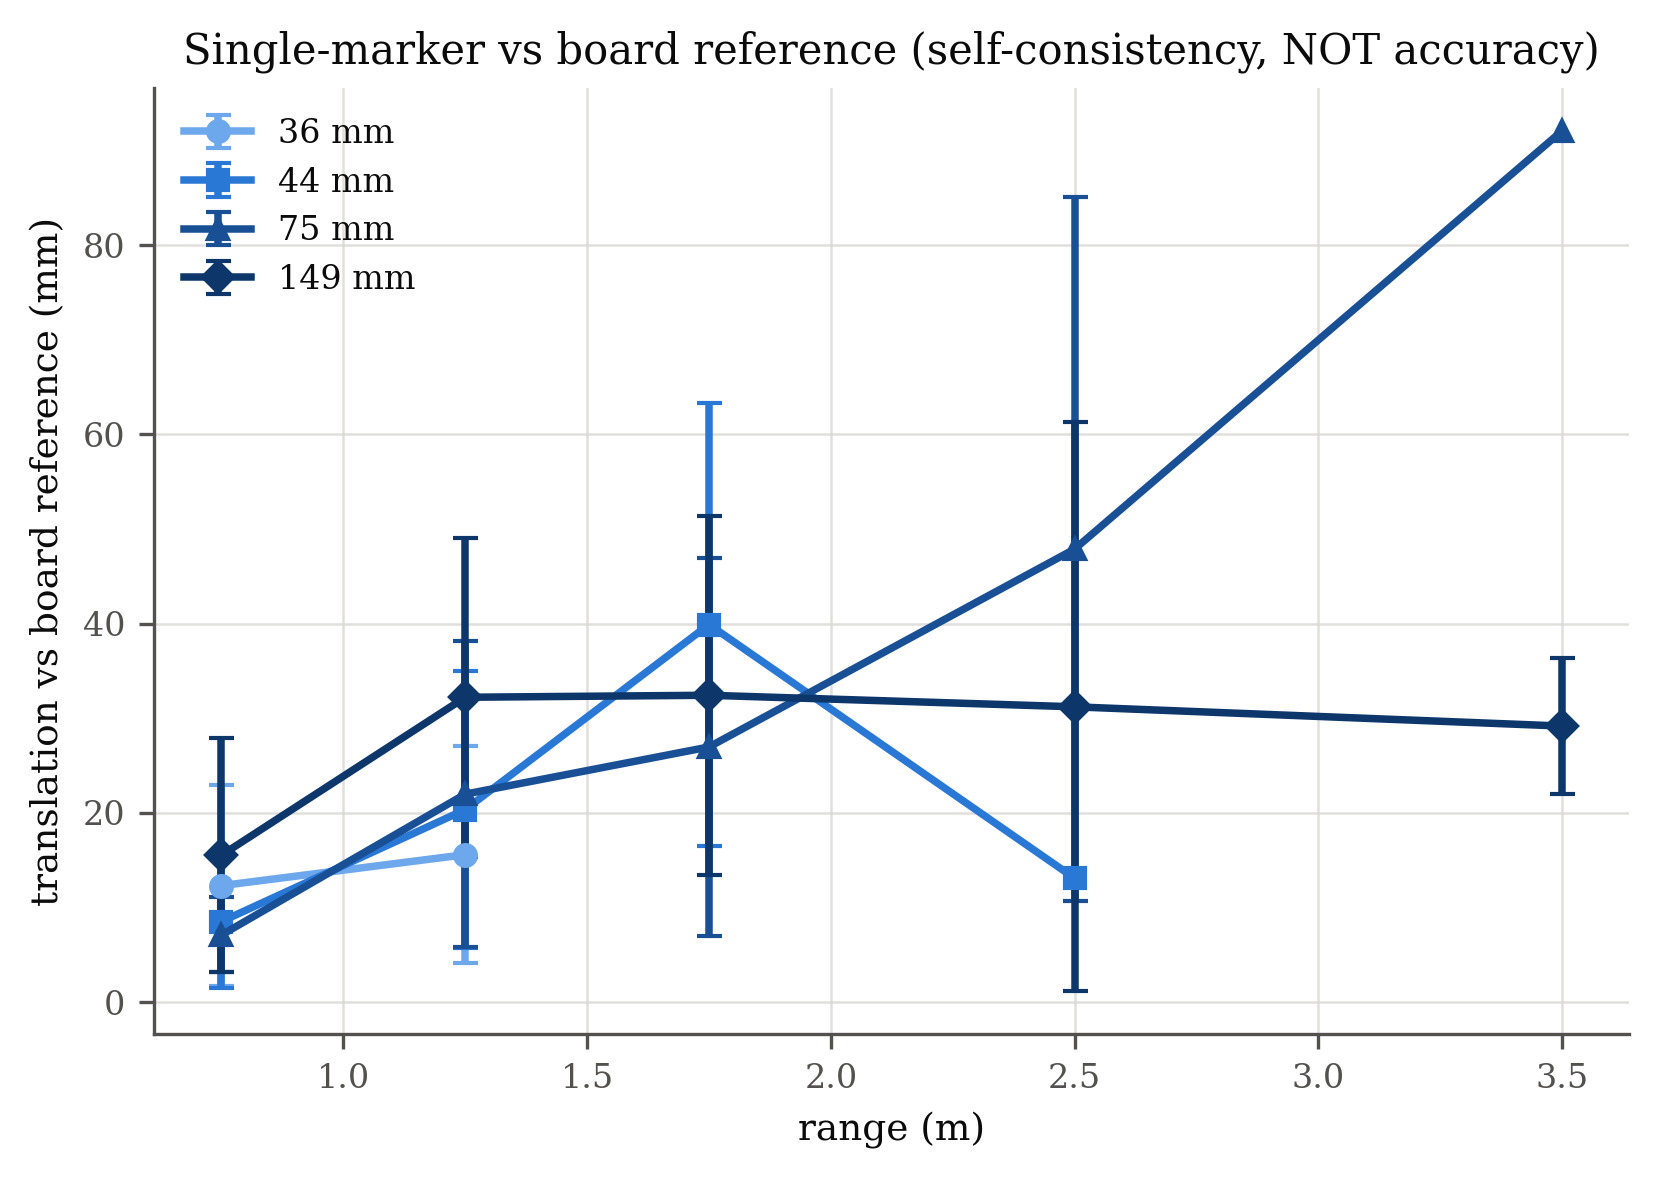
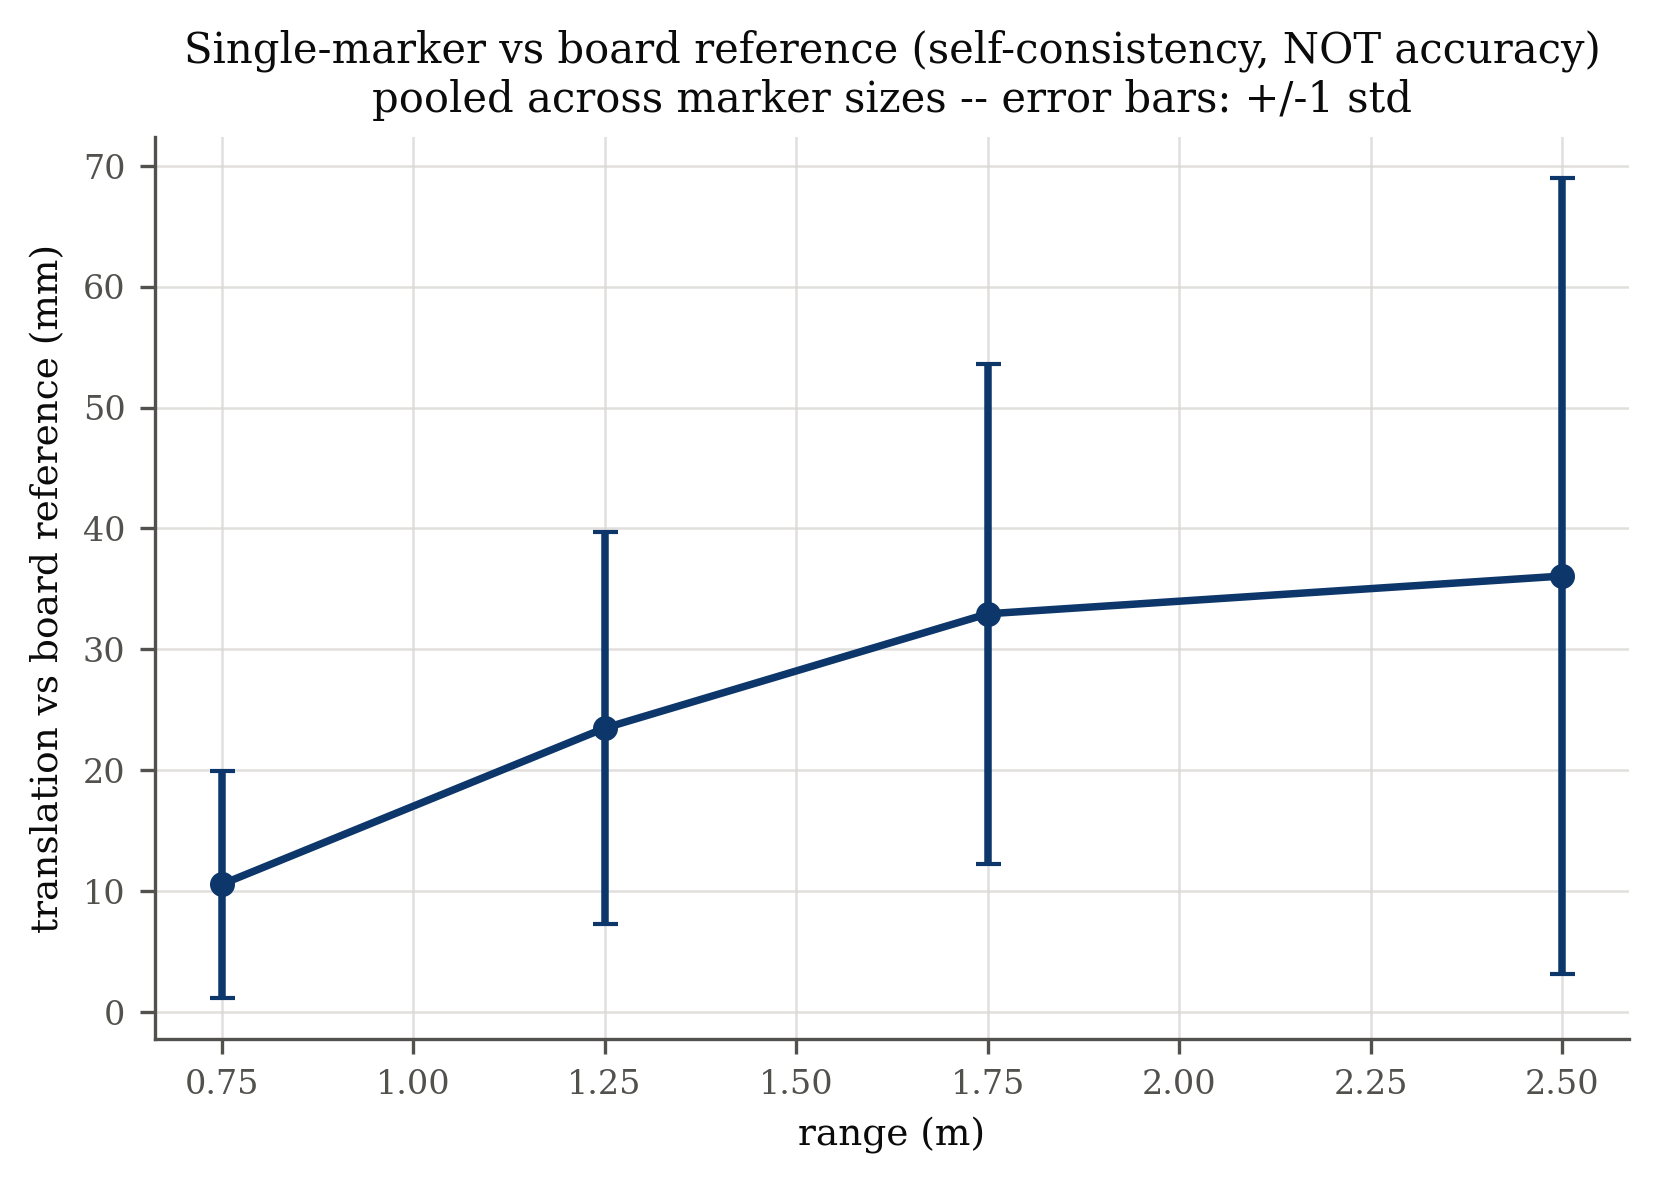
results(aruco): pool the pose-error figure; drop a misleading per-size split
Generated by alanchoi00/underwater-aruco-validation@fe8b49d.

The pose-error figure broke single-marker-vs-board-reference error down by marker size.
That split measured the leave-one-out REFERENCE, not the marker under test: removing
201/202 leaves only the narrow centre cluster as the reference (weak pose), while
removing a 44mm marker leaves 201+202, 427mm apart (strong pose). So the 149mm series
was scored against the worst reference and looked worst -- 32.2mm vs 15.6mm for 36mm at
the same range. The SEM bars did not overlap, so it read as a real effect while saying
'bigger markers give worse pose', which is backwards.

Pooled into one curve: ~11mm at <1m rising to ~36mm by 2-3m, monotonic. The confound is
now documented in the metric docstring and the summary, since the per-size data remains
in pose_error_vs_reference.csv and would otherwise be re-derived into the wrong claim.

Also applies the existing low-n suppression to this figure (its 44mm 'crash' to 13mm and
75mm 'spike' to 92mm were both n=1 bins; the spike drew no error bar at all because the
std of one sample is NaN).

Refs #2.

diff --git a/report/thesis-c/data/aruco/summary.md b/report/thesis-c/data/aruco/summary.md
@@ -1,6 +1,6 @@
 # Results summary
 
-- Analysis code: `alanchoi00/underwater-aruco-validation@8c23d0a`
+- Analysis code: `alanchoi00/underwater-aruco-validation@fe8b49d`
 - OpenCV: `4.10.0`
 - Fitted law: `max_range ~ 34.9 x side_length`
 - Host CPU (latency context): `11th Gen Intel(R) Core(TM) i7-11800H @ 2.30GHz`
@@ -10,6 +10,8 @@
 - Latency is detectMarkers on the analysis host, not on ROV compute.
 - Angle is reported as two regimes (test1 head-on, test2 oblique ~57 deg), NOT a swept curve: there is no controlled angle sweep and angle is confounded with range/size (spec 3.1c).
 - 3 bin(s) with fewer than 10 trials were suppressed from the detection-rate figures (their Wilson CI spans most of the axis and would dominate the plot with no information); the full per-bin table, including these, is still in `detection_trials_test1.csv` / `detection_trials_test2.csv`. Suppressed: 75 mm, 8-12 px, n=2; 75 mm, 100-140 px, n=2; 149 mm, 200-300 px, n=1.
+- 1 bin(s) with fewer than 10 trials were suppressed from the pose-error-vs-range figure (pooled across marker sizes; n=1-3 bins were near-empty and would carry a std of NaN or an unrepresentative one); the full per-bin table, including these, is still in `trans_err_vs_range.csv`. Suppressed: 3.0-4.0 m, n=3.
+- The pose-error-vs-range figure is pooled across marker sizes, not broken down per size: the leave-one-out board reference used by `pose_error_vs_reference` gets weaker when 201/202 are the marker under test (only the narrow centre cluster remains as reference) and stronger when a small marker is under test (201+202, 427 mm apart, remain) -- a per-size split would measure that reference confound, not marker quality, and read backwards (see `analysis/metrics.py`).
 
 ## test1
 